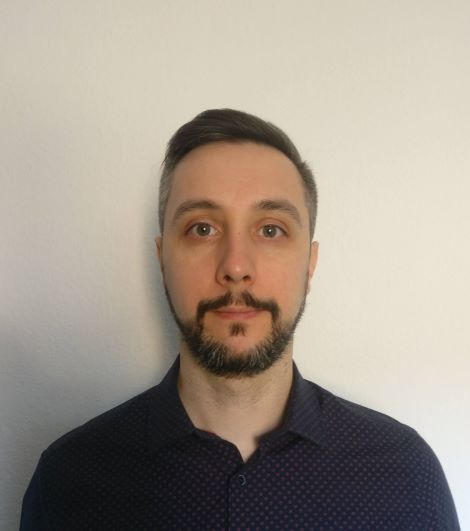
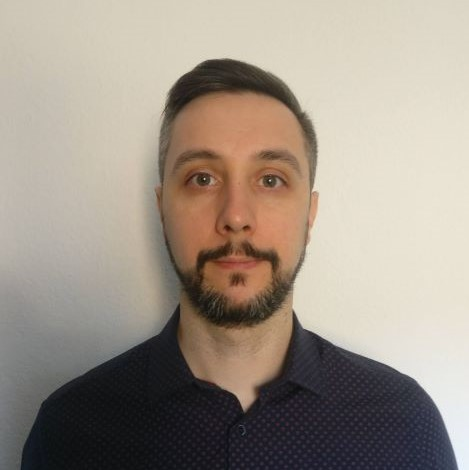
UPDATE

diff --git a/public/css/styles.css b/public/css/styles.css
@@ -9,6 +9,7 @@
 }
 
 #iProfileImage {
+    border-radius: 8em;
     -webkit-box-shadow: 10px 10px 5px 0px rgba(0,0,0,0.75);
     -moz-box-shadow: 10px 10px 5px 0px rgba(0,0,0,0.75);
     box-shadow: 10px 10px 5px 0px rgba(0,0,0,0.75);
@@ -23,7 +24,8 @@ p {
 }
 
 #iMoveUpBtn {
-    position: sticky;
+    
+    width: 50px;
     left:calc(50% - 23px);
     bottom: 10px;
     -webkit-box-shadow: 5px 5px 8px 0px rgba(0,0,0,0.55);

diff --git a/public/js/index.js b/public/js/index.js
@@ -5,7 +5,7 @@ let lastScroll = 0;
  $(document).on('scroll',() => {
 
     let st = $(this).scrollTop();
-    console.log(st,lastScroll,$('#iDownloads').offset().top);
+    //console.log(st,lastScroll,$('#iDownloads').offset().top);
     if (st < lastScroll){
          // upscroll
         if ($('#iNavigation').offset().top < st) {
